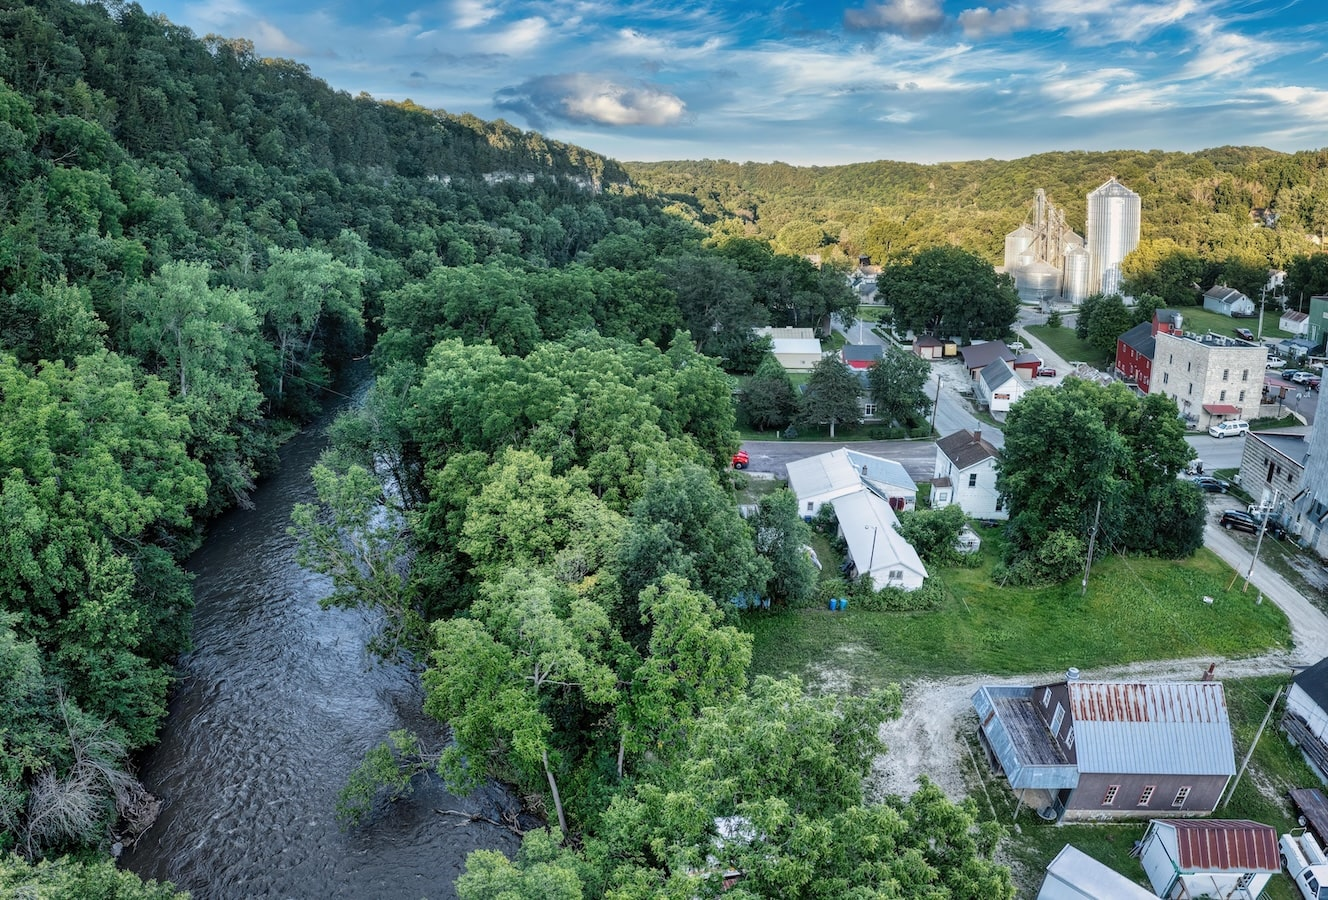
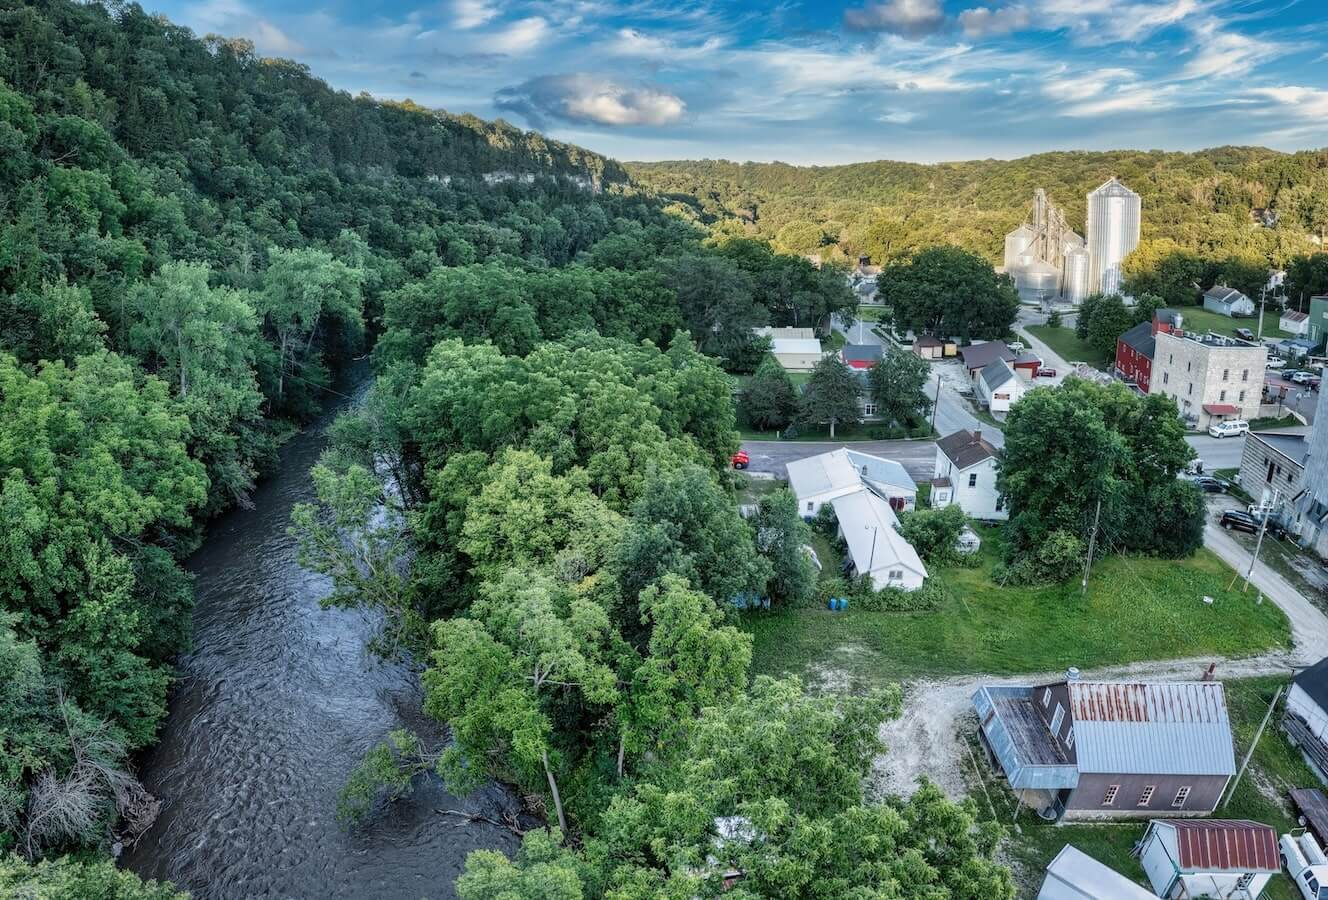
compressed images even more

diff --git a/src/i18n/index.ts b/src/i18n/index.ts
@@ -6,7 +6,7 @@ i18n
   .use(LanguageDetector)
   .use(initReactI18next)
   .init({
-    debug: true,
+    debug: false,
     supportedLngs: ['sv', 'en'],
     fallbackLng: 'en',
     interpolation: {
